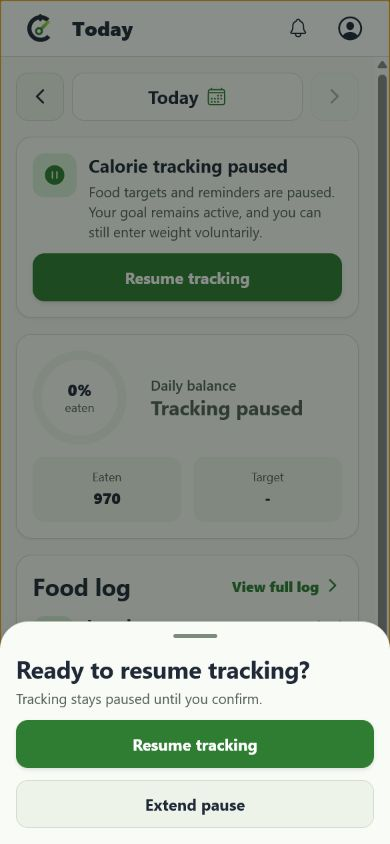
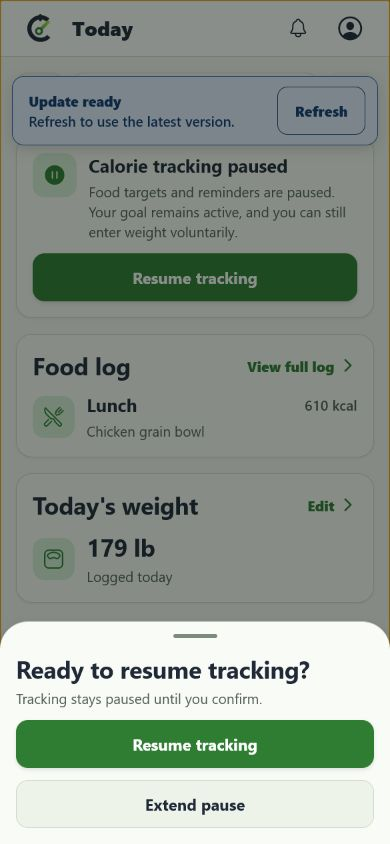
Simplify paused day presentation

diff --git a/e2e/expo-web/release-smoke.spec.ts b/e2e/expo-web/release-smoke.spec.ts
@@ -67,7 +67,26 @@ const TREND_METRICS = [
   { id: 1, user_id: 17, date: '2026-07-04', weight: 90.0, body_fat_percent: null, trend_weight: 89.8, trend_ci_lower: 89.4, trend_ci_upper: 90.2 },
 ];
 
-async function stubAuthenticatedApi(page: Page): Promise<void> {
+type AuthenticatedApiOptions = {
+  foodDayStatus?: 'OPEN' | 'PAUSED';
+  foodEntries?: Array<{
+    id: number;
+    meal_period: 'BREAKFAST';
+    name: string;
+    calories: number;
+    servings_consumed: number;
+  }>;
+};
+
+const DEFAULT_FOOD_ENTRIES: NonNullable<AuthenticatedApiOptions['foodEntries']> = [{
+  id: 31,
+  meal_period: 'BREAKFAST',
+  name: 'Greek yogurt and berries',
+  calories: 360,
+  servings_consumed: 1,
+}];
+
+async function stubAuthenticatedApi(page: Page, options: AuthenticatedApiOptions = {}): Promise<void> {
   unexpectedApiRequests.set(page, []);
   await page.route('**/*', (route) => {
     const url = new URL(route.request().url());
@@ -99,25 +118,20 @@ async function stubAuthenticatedApi(page: Page): Promise<void> {
       });
     }
     if (pathname === '/api/v1/food') {
-      return fulfillJson(route, [{
-        id: 31,
-        meal_period: 'BREAKFAST',
-        name: 'Greek yogurt and berries',
-        calories: 360,
-        servings_consumed: 1,
-      }]);
+      return fulfillJson(route, options.foodEntries ?? DEFAULT_FOOD_ENTRIES);
     }
     if (pathname === '/api/v1/food-days/pause') {
+      const isPaused = options.foodDayStatus === 'PAUSED';
       return fulfillJson(route, {
         pause: {
-          active: false,
-          id: null,
-          starts_on: null,
-          expected_resume_on: null,
+          active: isPaused,
+          id: isPaused ? 9 : null,
+          starts_on: isPaused ? '2026-07-21' : null,
+          expected_resume_on: isPaused ? '2099-12-31' : null,
           resumed_on: null,
-          started_at: null,
+          started_at: isPaused ? '2026-07-21T08:00:00.000Z' : null,
           resumed_at: null,
-          materialized_through: null,
+          materialized_through: isPaused ? '2026-07-23' : null,
           resume_confirmation_due: false,
         },
       });
@@ -130,9 +144,9 @@ async function stubAuthenticatedApi(page: Page): Promise<void> {
         end_date: endDate,
         days: [{
           date: startDate,
-          status: 'OPEN',
-          origin: null,
-          source: 'DEFAULT',
+          status: options.foodDayStatus ?? 'OPEN',
+          origin: options.foodDayStatus === 'PAUSED' ? 'PAUSE' : null,
+          source: options.foodDayStatus === 'PAUSED' ? 'STORED' : 'DEFAULT',
           is_representative: false,
           is_complete: false,
           completed_at: null,
@@ -143,9 +157,9 @@ async function stubAuthenticatedApi(page: Page): Promise<void> {
     if (pathname === '/api/v1/food-days') {
       return fulfillJson(route, {
         date: url.searchParams.get('date'),
-        status: 'OPEN',
-        origin: null,
-        source: 'DEFAULT',
+        status: options.foodDayStatus ?? 'OPEN',
+        origin: options.foodDayStatus === 'PAUSED' ? 'PAUSE' : null,
+        source: options.foodDayStatus === 'PAUSED' ? 'STORED' : 'DEFAULT',
         is_representative: false,
         is_complete: false,
         completed_at: null,
@@ -392,6 +406,27 @@ test('authenticated shell renders real dashboard data and navigates release surf
   await page.getByRole('button', { name: /Health Connect/ }).click();
   await expect(page.getByRole('button', { name: 'View activity history', exact: true })).toBeVisible();
   await expectNoHorizontalOverflow(page);
+});
+
+test('paused days omit calorie progress and only preview food when entries exist', async ({ page }) => {
+  const options: AuthenticatedApiOptions = {
+    foodDayStatus: 'PAUSED',
+    foodEntries: [...DEFAULT_FOOD_ENTRIES],
+  };
+  await stubAuthenticatedApi(page, options);
+  await page.goto('/today');
+
+  await expect(page.getByText('Calorie tracking paused', { exact: true })).toBeVisible();
+  await expect(page.getByText('Daily balance', { exact: true })).toBeHidden();
+  await expect(page.getByText('0%', { exact: true })).toBeHidden();
+  await expect(page.getByRole('button', { name: /Food log.*View full log/ })).toContainText('Greek yogurt and berries');
+
+  options.foodEntries = [];
+  await page.reload();
+
+  await expect(page.getByText('Calorie tracking paused', { exact: true })).toBeVisible();
+  await expect(page.getByText('Daily balance', { exact: true })).toBeHidden();
+  await expect(page.getByRole('button', { name: /Food log.*View full log/ })).toBeHidden();
 });
 
 test('a browser write survives reload and replays exactly once with its operation id', async ({ page }, testInfo) => {

diff --git a/mobile/app/(tabs)/today.tsx b/mobile/app/(tabs)/today.tsx
@@ -80,9 +80,9 @@ export default function TodayScreen() {
     const selectedDateMetric = (metricsQuery.data ?? []).find((metric) => getMetricDate(metric) === selectedDate) ?? null;
     const isToday = selectedDate === getTodayDate(user?.timezone);
     const dayStatus = foodDayQuery.data;
+    const isPaused = dayStatus?.status === 'PAUSED';
     const showCalorieComparison = dayStatus?.status === 'COMPLETE' || (isToday && dayStatus?.status === 'OPEN');
     let unavailableLabel = 'Day unresolved';
-    if (dayStatus?.status === 'PAUSED') unavailableLabel = 'Tracking paused';
     if (dayStatus?.status === 'INCOMPLETE') unavailableLabel = 'Incomplete day';
     const showContentSkeleton =
         (!profileQuery.data || !foodQuery.data || !metricsQuery.data || !foodDayQuery.data) &&
@@ -97,17 +97,21 @@ export default function TodayScreen() {
                 <LogContentSkeleton />
             ) : (
                 <>
-                    <CalorieBalanceCard
-                        totalCalories={calories}
-                        targetCalories={showCalorieComparison ? target : null}
-                        unavailableLabel={unavailableLabel}
-                    />
+                    {!isPaused && (
+                        <CalorieBalanceCard
+                            totalCalories={calories}
+                            targetCalories={showCalorieComparison ? target : null}
+                            unavailableLabel={unavailableLabel}
+                        />
+                    )}
 
-                    <FoodLogSummaryCard
-                        entries={entries}
-                        trackingUnavailable={dayStatus?.status !== 'OPEN' && dayStatus?.status !== 'COMPLETE'}
-                        onPress={() => router.push({ pathname: '/(tabs)/food-log', params: { date: selectedDate } })}
-                    />
+                    {(!isPaused || entries.length > 0) && (
+                        <FoodLogSummaryCard
+                            entries={entries}
+                            trackingUnavailable={dayStatus?.status !== 'OPEN' && dayStatus?.status !== 'COMPLETE'}
+                            onPress={() => router.push({ pathname: '/(tabs)/food-log', params: { date: selectedDate } })}
+                        />
+                    )}
 
                     <TodayWeightCard
                         metric={selectedDateMetric}